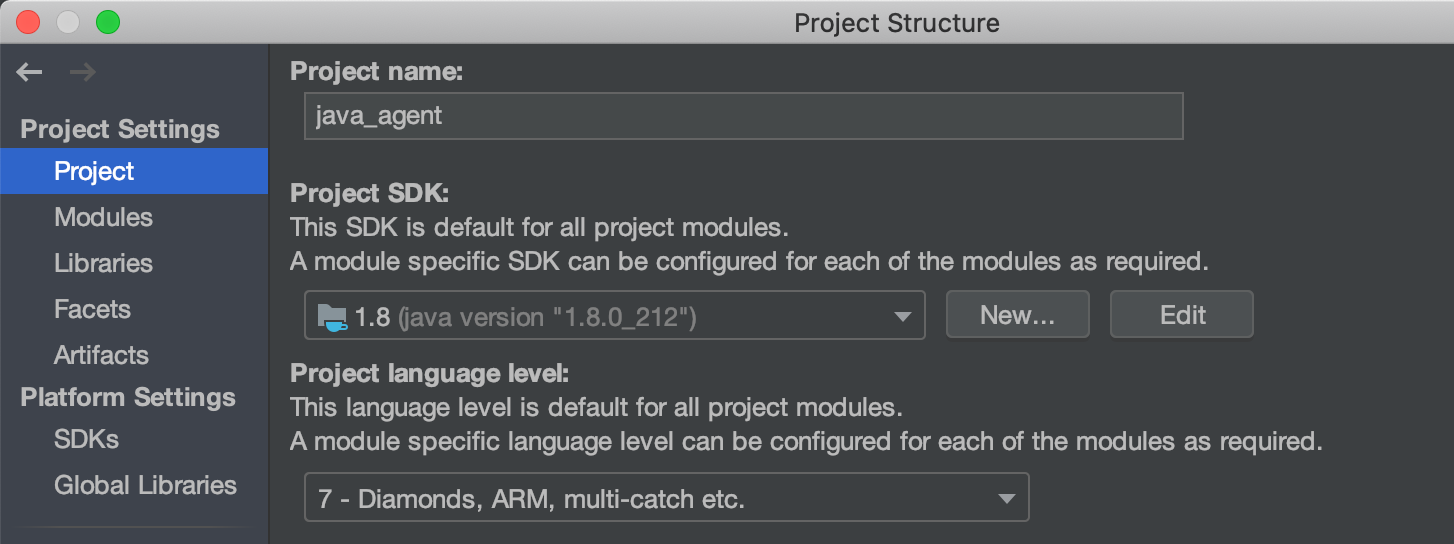
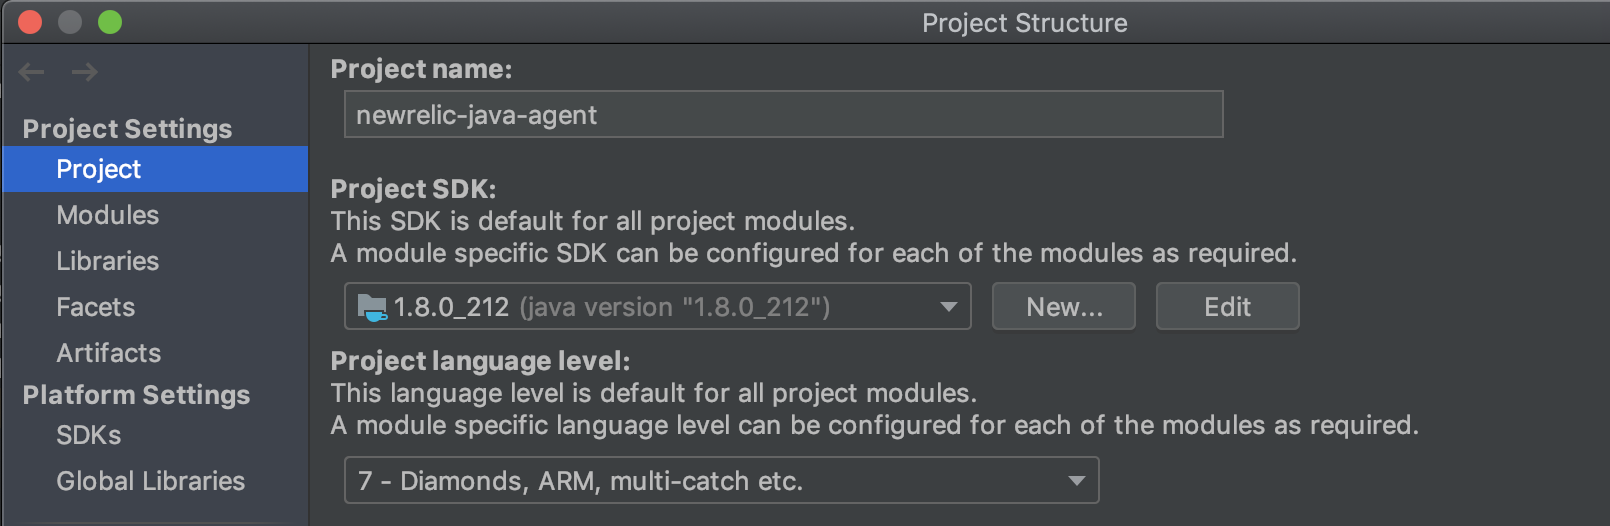
correct project name refs in readme

diff --git a/README.md b/README.md
@@ -68,7 +68,7 @@ After building, Java agent artifacts are located here:
 
 We recommend using IntelliJ IDEA for development on this project. Configure as follows:
 
-1. Select `File > Open` and select `java_agent/build.gradle`.
+1. Select `File > Open` and select `newrelic-java-agent/build.gradle`.
 2. Select `Open as Project`.
 3. Wait for the builds, imports, and indexing to finish. This may take a few minutes due to the project's size and complexity.
 4. Import Code Style: from `dev-tools/code-style/java-agent-code-style.xml`, select `Preferences > Editor > Code Style > gear cog > Import Scheme > IntelliJ IDEA code style XML`.
@@ -93,7 +93,7 @@ The functional tests are JUnit tests for which Gradle ensures that each test cla
 
 **Note:** Functional tests require that the Java agent jar artifact is present in the build directory. 
 
-Functional tests are located in `java_agent/functional_test/src/test/` and are run from the root `java_agent` directory as follows:
+Functional tests are located in `newrelic-java-agent/functional_test/src/test/` and are run from the root `newrelic-java-agent` directory as follows:
 
 Run all functional tests: 
 ```
@@ -109,7 +109,7 @@ Run an individual functional test:
 
 The instrumentation module tests are also JUnit tests. The framework is the industry-standard JUnit dependency modified by a custom test runner and class loader that support bytecode weaving within the test without the need to fully initialize the agent. Note: fully initializing the agent is not possible when running in an uninstrumented reusable test process like an IntelliJ test subprocess or Gradle daemon. There is also an "introspector" (somewhat equivalent to a local mock collector) for test assertions.
 
-Instrumentation tests are located in each instrumentation module at  `java_agent/instrumentation/<INSTRUMENTATION MODULE>/src/test` and are run from the root `java_agent` directory as follows:
+Instrumentation tests are located in each instrumentation module at  `newrelic-java-agent/instrumentation/<INSTRUMENTATION MODULE>/src/test` and are run from the root `newrelic-java-agent` directory as follows:
 
 Run all instrumentation module tests: 
 ```
